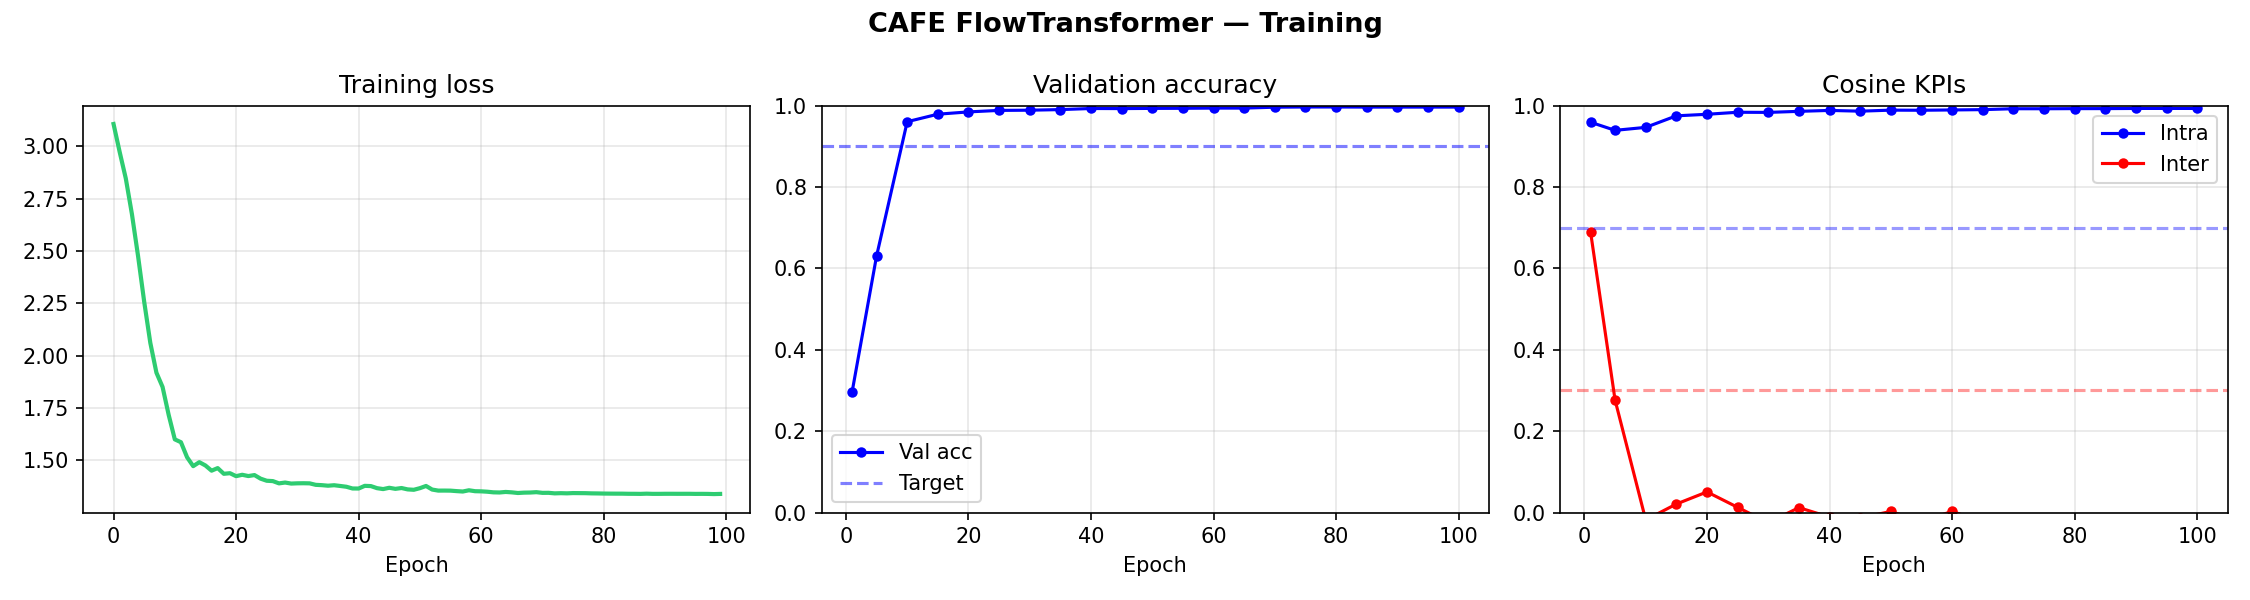
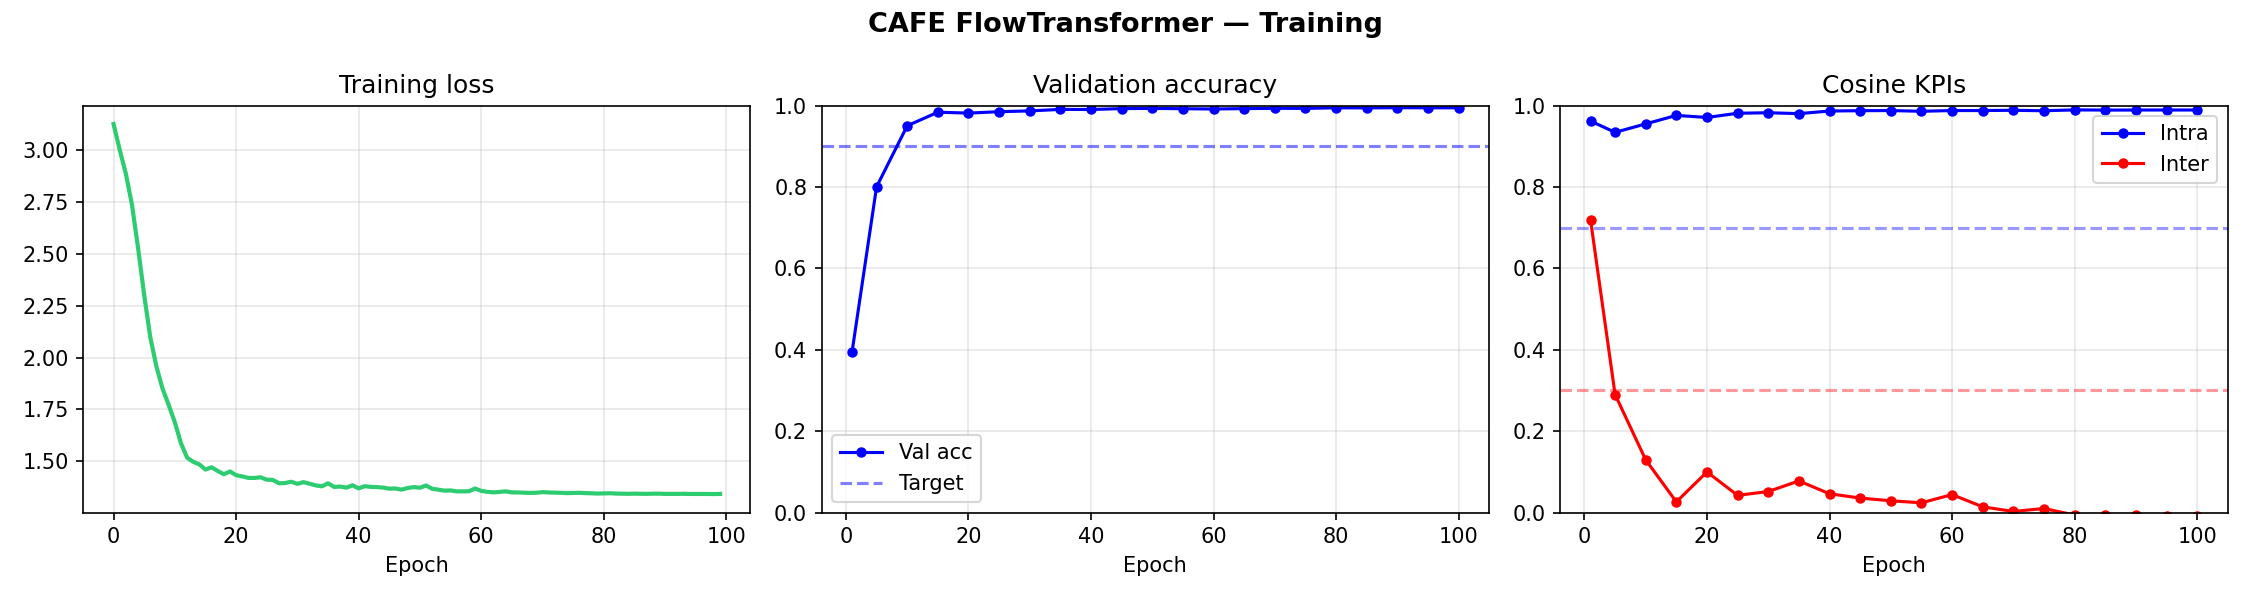
Done

diff --git a/server/main.py b/server/main.py
@@ -48,7 +48,7 @@ warnings.filterwarnings("ignore")
 # When running from cafe_project root: CAFE_ROOT = "."
 # ─────────────────────────────────────────────────────────────────────────────
 
-CAFE_ROOT = Path(os.getenv("CAFE_ROOT", "."))
+CAFE_ROOT = Path(__file__).resolve().parent.parent
 sys.path.insert(0, str(CAFE_ROOT))
 
 # ─────────────────────────────────────────────────────────────────────────────

diff --git a/README.md b/README.md
@@ -2,6 +2,7 @@ CyberSight (ThreatMatrix) 🛡️
 AI-Powered Digital Footprint Intelligence & Privacy Threat Detection
 
 CyberSight transforms raw, high-throughput network telemetry into human-understandable digital footprint intelligence. By pivoting away from traditional Deep Packet Inspection (DPI) and obfuscated security logs, CyberSight leverages a custom FlowTransformer Encoder to parse behavioral session metadata, evaluate user privacy risk, and generate immediate, natural-language mitigation workflows.
+
 📑 Table of Contents
 
     The Problem vs. Our Solution
@@ -23,6 +24,7 @@ CyberSight transforms raw, high-throughput network telemetry into human-understa
     Installation & Quickstart
 
 🔍 The Problem vs. Our Solution
+
 The Problem
 
 Every connected device exchanges thousands of complex network flows daily. Standard users are completely blind to their data footprint: what external apps are calling out, where data goes geographically, or if localized background processes are subtly exfiltrating assets. Traditional enterprise monitoring software fumbles at the consumer level—swamping users with raw packet dumps, Wireshark logs, and cryptically labeled indicators that require deep domain expertise to parse.